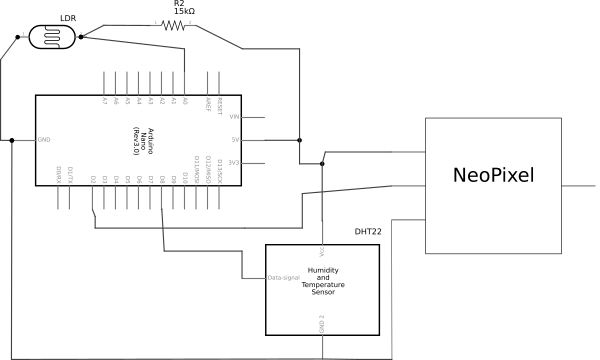
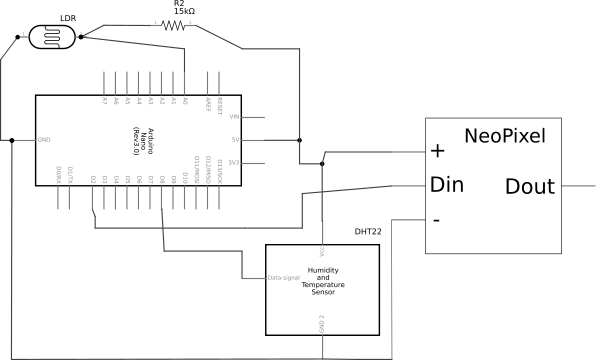
sectie programma

Changed region(s): [[0.72, 0.4583, 0.93, 0.55], [0.75, 0.3361, 0.93, 0.3972], [0.72, 0.3972, 0.75, 0.4278]]

diff --git a/_posts/2020-01-25-etsen-van-glas-high-tech.md b/_posts/2020-01-25-etsen-van-glas-high-tech.md
@@ -83,7 +83,15 @@ De DHT11 of DHT22 heeft 4 pinnen. Koop deze evenwel op een PCB, dan zijn er 3 pi
 
 Maak je constructie zodat alles in het deksel past, en je nog stroom kunt voorzien aan de Arduino. Hiertoe moet je solderen (TODO: link naar solderen )
 
+Het elektronische circuit:
+
+![circuit]({{ site.baseurl }}/assets/images/2020-01-25-etsen-van-glas-high-tech/etsen_glas_hightech_schema.png)
+
 #### Constructie van Circuit
+
+#### Programmatie
+
+We programmeren nu de nano om als nachtlamp te kunnen dienen.
 
 ## Voorbeelden
 Heb je een foto van je glasversiering? Stuur hem ons!
